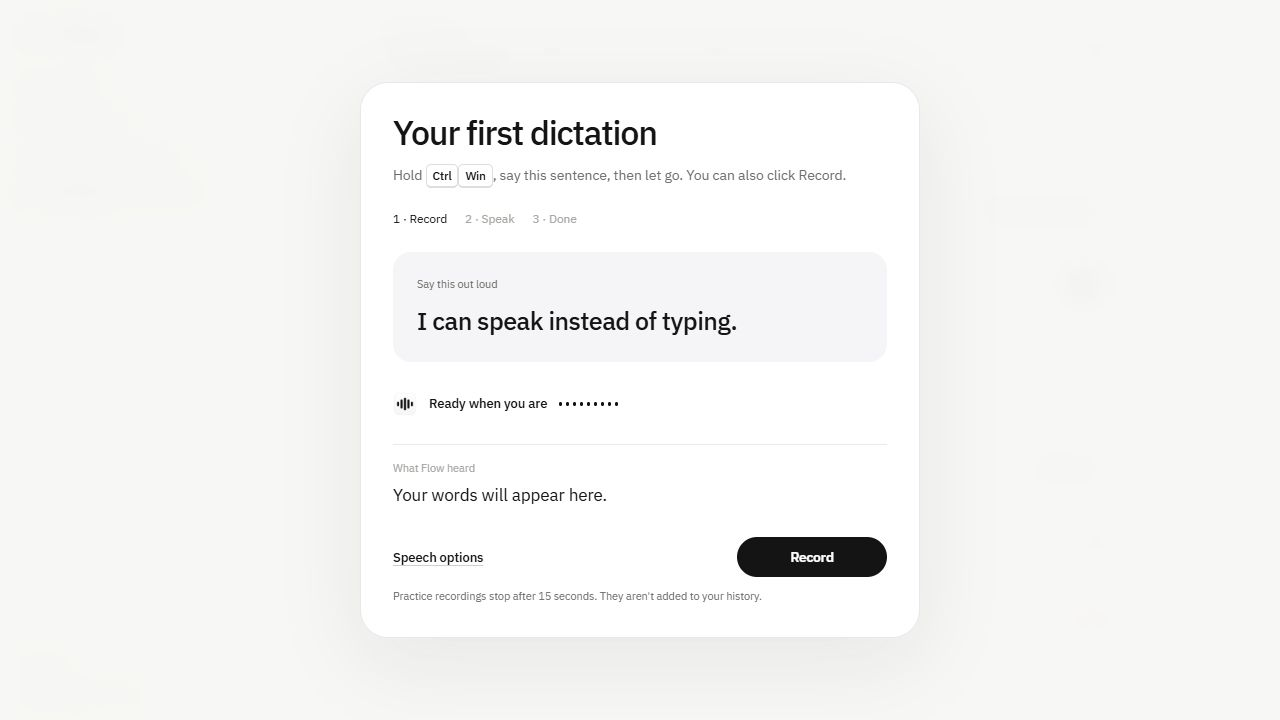
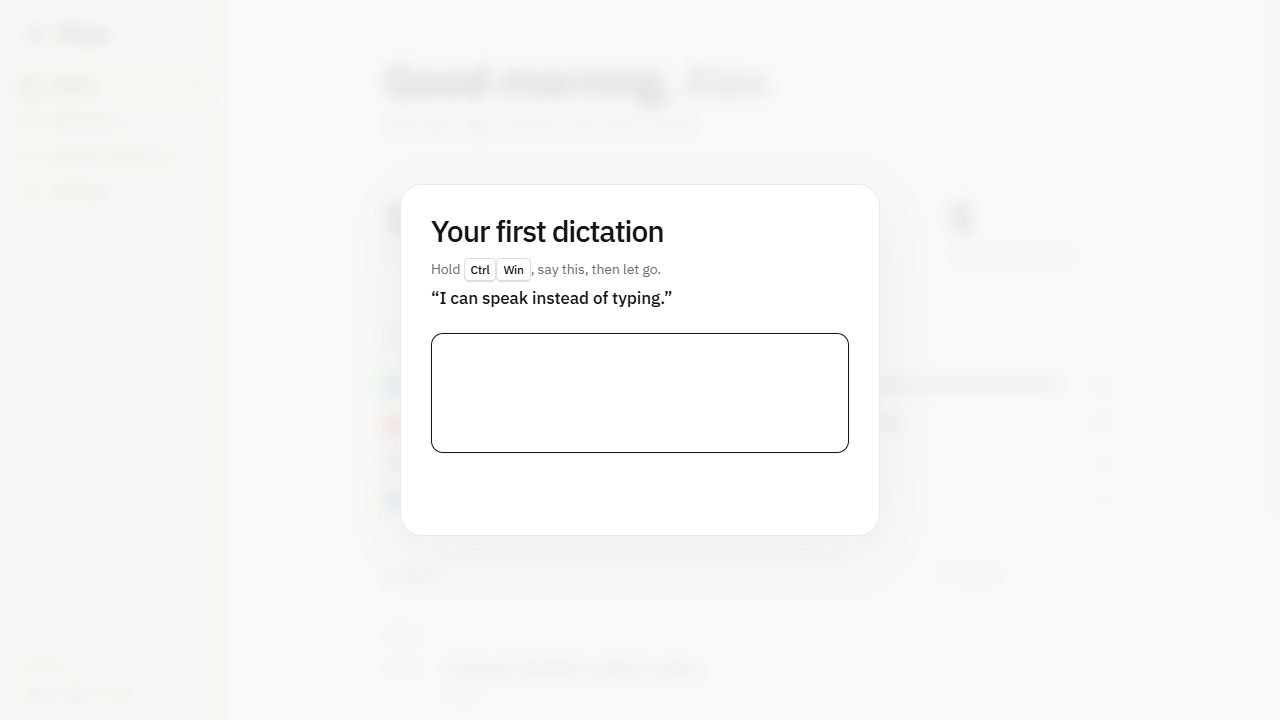
Simplify first dictation and fade setup into the app

diff --git a/ui.html b/ui.html
@@ -197,34 +197,26 @@
   .form-status { color: var(--ink-2); font-size: 12.5px; margin: 10px 0; }
   .shortcut-example { background: #F3F3F1; border-radius: 14px; padding: 16px 20px; margin: -18px 0 24px; display: flex; align-items: center; gap: 14px; flex-wrap: wrap; font-size: 14px; }
   .shortcut-example b { font-weight: 500; }
-  .tutorial { position: fixed; inset: 0; background: #f7f7f5f5; backdrop-filter: blur(12px); z-index: 80; display: grid; place-items: center; padding: 24px; overflow: auto; }
-  .tour-card { width: min(560px, 100%); background: white; border: 1px solid #e8e8eb; border-radius: 28px; padding: 32px; box-shadow: 0 24px 80px #14141412; animation: tour-in .4s var(--ease); }
-  .tour-card h1 { font-size: 34px; letter-spacing: -.035em; }
+  .ob.leaving, .tutorial.leaving { animation: setup-out .28s var(--ease) both; pointer-events: none; }
+  .ob.leaving .ob-card { animation: card-out .28s var(--ease) both; }
+  .tutorial { position: fixed; inset: 0; background: #f7f7f5ce; backdrop-filter: blur(8px); z-index: 80; display: grid; place-items: center; padding: 24px; overflow: auto; animation: setup-in .28s var(--ease); }
+  .tour-card { width: min(480px, 100%); background: white; border: 1px solid var(--line); border-radius: 22px; padding: 30px; box-shadow: 0 16px 60px #1414140d; animation: tour-in .32s var(--ease); }
+  .tour-card h1 { font-size: 30px; letter-spacing: -.035em; }
   .tour-card p { color: var(--ink-2); font-size: 14px; }
-  .practice-steps { display: flex; gap: 18px; padding: 0; list-style: none; color: var(--ink-3); font-size: 12px; margin: 24px 0; }
-  .practice-steps li.on { color: #141414; }
-  .practice-steps li.done { color: #27864b; }
-  .practice-phrase { border-radius: 18px; background: #f5f5f7; padding: 24px; margin-bottom: 18px; }
-  .practice-phrase small { display: block; color: var(--ink-2); font-size: 11px; margin-bottom: 12px; }
-  .practice-phrase blockquote { margin: 0; font-size: 25px; font-weight: 500; line-height: 1.35; letter-spacing: -.02em; }
-  .practice-meter { display: flex; align-items: center; gap: 12px; min-height: 48px; }
-  .practice-meter img { width: 24px; height: 24px; }
-  .practice-bars { display: flex; align-items: center; gap: 4px; height: 32px; }
-  .practice-bars i { display: block; width: 3px; height: 4px; border-radius: 3px; background: #141414; transition: height .15s ease; }
-  .practice-meter[data-state="thinking"] .practice-bars i { animation: tour-wave .65s ease-in-out infinite alternate; animation-delay: calc(var(--i) * -.1s); }
-  .practice-meter[data-state="passed"] .practice-bars { display: none; }
-  .practice-meter b { font-size: 13px; font-weight: 500; }
-  .practice-meter time { margin-left: auto; color: var(--ink-2); font-size: 12px; font-variant-numeric: tabular-nums; }
-  .practice-output { min-height: 65px; border-top: 1px solid var(--line); margin-top: 16px; padding: 15px 0; }
-  .practice-output small { display: block; font-size: 11px; color: var(--ink-3); margin-bottom: 6px; }
-  .practice-output p { color: #141414; margin: 0; font-size: 17px; }
-  .tour-foot { display: flex; justify-content: space-between; align-items: center; gap: 12px; margin-top: 14px; }
-  .tour-foot .btn { min-width: 150px; }
+  #tourHint { margin: 12px 0 6px; }
+  .practice-phrase { margin: 0 0 22px; font-size: 17px; font-weight: 500; }
+  .practice-output { display: block; width: 100%; height: 120px; padding: 16px; border: 1px solid #ddddd9; border-radius: 12px; resize: none; background: white; user-select: text; font-size: 18px; line-height: 1.5; transition: border-color .15s, box-shadow .15s; }
+  .practice-output:focus { outline: none; border-color: var(--ink); box-shadow: 0 0 0 2px #14141408; }
+  .tutorial[data-state="passed"] .practice-output { border-color: #3c9a5f; }
+  .tour-foot { display: flex; justify-content: space-between; align-items: center; gap: 12px; min-height: 40px; margin-top: 12px; }
+  #practiceState { font-size: 12px; color: var(--ink-2); }
+  .tour-foot .btn { padding: 8px 18px; }
   .practice-note { font-size: 11px !important; margin: 12px 0 0; line-height: 1.45; }
-  @keyframes tour-in { from { opacity: 0; transform: translateY(16px) scale(.96); } }
-  @keyframes tour-press { 25%,65% { transform: translateY(3px); background: #F3F3F1; } }
-  @keyframes tour-wave { to { height: 24px; } }
-  button:focus-visible, input:focus-visible, select:focus-visible, a:focus-visible { outline: 2px solid #141414; outline-offset: 3px; }
+  @keyframes setup-in { from { opacity: 0; } }
+  @keyframes setup-out { to { opacity: 0; } }
+  @keyframes card-out { to { opacity: 0; transform: translateY(-8px); } }
+  @keyframes tour-in { from { opacity: 0; transform: translateY(10px); } }
+  button:focus-visible, input:focus-visible, textarea:focus-visible, select:focus-visible, a:focus-visible { outline: 2px solid #141414; outline-offset: 3px; }
   @media (prefers-reduced-motion: reduce) { *, *::after { animation: none !important; transition: none !important; } }
   @media (max-height: 650px) { .ob { align-items: flex-start; overflow-y: auto; padding: 42px 0; } .ob-foot { margin-top: 20px; } #tutorial { align-items: flex-start; padding: 18px; } .tour-card { padding: 24px; } }
   mark { background: #FFF1A8; color: inherit; border-radius: 2px; }
@@ -702,57 +694,88 @@ async function obNext() {
     btn.disabled = true; btn.textContent = "Getting to know you…";
     if (ob.notes) await api().enable_voice_notes(true);
     await api().finish_onboarding(ob.name, ob.langs, ob.scan && (ob.sys.vaults || []).length > 0);
-    $("#ob").hidden = true; await boot(); showTutorial();
+    await boot();
+    $("#scroll").inert = true; $("aside").inert = true;
+    await fadeAway($("#ob"));
+    showTutorial();
     return;
   }
   ob.step++; obRender();
 }
 
 // ---------------------------------------------------------------- shell
+async function fadeAway(layer) {
+  if (!window.matchMedia("(prefers-reduced-motion: reduce)").matches) {
+    layer.classList.add("leaving");
+    // A bounded timer also handles WebViews that don't dispatch animationend.
+    await new Promise(resolve => setTimeout(resolve, 280));
+  }
+  layer.hidden = true; layer.classList.remove("leaving");
+}
 let tourTimer, tourFocus, tourData, tourState = "loading", tourPolling = false;
 async function showTutorial() {
   clearInterval(tourTimer); tourFocus = document.activeElement; tourState = "loading";
-  const modal = $("#tutorial"); modal.hidden = false;
+  const modal = $("#tutorial"); modal.hidden = false; modal.dataset.state = "loading";
   $("#scroll").inert = true; $("aside").inert = true;
-  modal.innerHTML = `<div class="tour-card"><h1 id="tourTitle">Your first dictation</h1><p id="tourHint">Hold ${kbd(S.shortcut)}, say this sentence, then let go. You can also click Record.</p>
-    <ol class="practice-steps"><li class="on">1 · Record</li><li>2 · Speak</li><li>3 · Done</li></ol>
-    <div class="practice-phrase"><small>Say this out loud</small><blockquote id="practicePhrase">Getting ready…</blockquote></div>
-    <div class="practice-meter" id="practiceMeter" data-state="loading"><img src="assets/logo.png" alt=""><b id="practiceState" role="status">Getting the speech engine ready…</b><div class="practice-bars">${Array.from({length:9}, (_,i) => `<i style="--i:${i}"></i>`).join("")}</div><time id="practiceTime"></time></div>
-    <div class="practice-output"><small>What Flow heard</small><p id="practiceOutput" aria-live="polite">Your words will appear here.</p></div>
-    <div class="tour-foot"><div><button class="link" id="practiceOptions">Speech options</button><button class="link" id="cancelPractice" hidden>Cancel recording</button></div><button class="btn" id="practiceAction" disabled>Record</button></div>
-    <div id="practiceOptionsPanel" hidden></div>
-    <p class="practice-note" id="practiceNote">Practice recordings stop after 15 seconds. They aren't added to your history.</p>
-    <p class="form-error" id="practiceError" role="alert" hidden></p></div>`;
+  modal.innerHTML = `<div class="tour-card"><h1 id="tourTitle">Your first dictation</h1>
+    <p id="tourHint">Hold ${kbd(S.shortcut)}, say this, then let go.</p>
+    <blockquote class="practice-phrase">“<span id="practicePhrase"></span>”</blockquote>
+    <textarea class="practice-output" id="practiceOutput" aria-label="Your dictation" aria-describedby="tourHint practicePhrase practiceState" readonly></textarea>
+    <div class="tour-foot"><span id="practiceState" role="status">Getting ready…</span><button class="btn" id="practiceAction" hidden disabled>Continue</button></div>
+    <p class="practice-note" id="practiceNote" hidden></p>
+    <p class="form-error" id="practiceError" role="alert" hidden></p>
+    <button class="link" id="practiceOptions" hidden>Speech settings</button><div id="practiceOptionsPanel" hidden></div></div>`;
   document.removeEventListener("keydown", tourKeys); document.addEventListener("keydown", tourKeys);
   $("#practiceAction").onclick = async () => {
     const button = $("#practiceAction"); button.disabled = true;
     try {
-      if (tourState === "passed") return await finishTutorial();
-      if (tourState === "recording") { tourState = "thinking"; await api().practice_stop(); }
-      else { tourState = "starting"; $("#practiceOutput").textContent = "Listening for your sentence…"; await api().practice_start(); }
-      await pollPractice();
-    } catch (error) { $("#practiceError").textContent = error.message || String(error); $("#practiceError").hidden = false; tourState = "retry"; button.disabled = false; button.textContent = "Try again"; }
+      if (tourState === "passed") await finishTutorial();
+    } catch (error) { $("#practiceError").textContent = error.message || String(error); $("#practiceError").hidden = false; button.disabled = false; }
   };
-  $("#cancelPractice").onclick = async () => { await api().practice_cancel(); await pollPractice(); };
+  // Engine recovery appears only on a failure; the ordinary practice stays empty.
   $("#practiceOptions").onclick = () => {
-    const panel = $("#practiceOptionsPanel"); panel.hidden = !panel.hidden; if (panel.hidden) return;
+    const panel = $("#practiceOptionsPanel"); panel.hidden = !panel.hidden;
+    if (panel.hidden) { $("#practiceOutput").focus(); return; }
     const config = speechConfig();
-    const draw = () => { panel.innerHTML = speechForm("practiceSpeech", config, S.speech_models || [], S.gpu && S.cuda ? "large-v3" : "small") + `<button class="btn" id="practiceSaveEngine">Use this engine</button>`;
+    const draw = () => {
+      panel.innerHTML = speechForm("practiceSpeech", config, S.speech_models || [], S.recommended_model || "small") + `<button class="btn" id="practiceSaveEngine">Use this engine</button>`;
       bindSpeech("practiceSpeech", config, draw);
-      $("#practiceSaveEngine").onclick = async e => { const button = e.currentTarget; button.disabled = true; const applied = await applySpeech("practiceSpeech",config); if (applied) {panel.hidden = true; if (config.provider === "api") $("#practiceNote").textContent = "This practice sends your recording to the selected speech provider. Its data policy and API fees apply."; else $("#practiceNote").textContent = "Practice recordings stop after 15 seconds. They aren't added to your history.";} else button.disabled = false; };
+      $("#practiceSaveEngine").onclick = async e => {
+        const button = e.currentTarget; button.disabled = true;
+        if (await applySpeech("practiceSpeech", config)) {
+          try {
+            tourData = await api().practice_open(document.hasFocus());
+            $("#practicePhrase").textContent = tourData.phrase;
+            $("#practiceOutput").value = "";
+            await pollPractice();
+            clearInterval(tourTimer); tourTimer = setInterval(pollPractice, 200);
+          } catch (error) {
+            $("#practiceError").textContent = error.message || String(error);
+            $("#practiceError").hidden = false; button.disabled = false; return;
+          }
+          panel.hidden = true;
+          $("#practiceNote").hidden = config.provider !== "api";
+          $("#practiceNote").textContent = "Audio is sent to your speech provider. Its data policy and API fees apply.";
+          $("#practiceOutput").focus();
+        } else button.disabled = false;
+      };
     }; draw();
   };
   try {
     tourData = await api().practice_open(document.hasFocus());
     $("#practicePhrase").textContent = tourData.phrase;
-    if (tourData.api) $("#practiceNote").textContent = `Your recording is sent to ${tourData.provider || "your speech provider"}. Its data policy and API fees apply. Practice stops after 15 seconds.`;
+    if (tourData.api) {
+      $("#practiceNote").hidden = false;
+      $("#practiceNote").textContent = `Audio is sent to ${tourData.provider || "your speech provider"}. Its data policy and API fees apply.`;
+    }
+    $("#practiceOutput").focus({preventScroll:true});
     await pollPractice(); tourTimer = setInterval(pollPractice, 200);
-  } catch (error) { $("#practiceError").textContent = error.message || String(error); $("#practiceError").hidden = false; }
+  } catch (error) { $("#practiceError").textContent = error.message || String(error); $("#practiceError").hidden = false; $("#practiceOptions").hidden = false; }
 }
 function tourKeys(e) {
   if (e.key === "Escape") { e.preventDefault(); if (tourState === "recording") api().practice_cancel(); return; }
   if (e.key === "Tab") {
-    const controls = [...$("#tutorial").querySelectorAll("button")].filter(b => !b.hidden && !b.disabled);
+    const controls = [...$("#tutorial").querySelectorAll("textarea,button,input,select,a")].filter(b => !b.closest('[hidden]') && !b.disabled);
     if (!controls.length) { e.preventDefault(); return; }
     const first = controls[0], last = controls.at(-1);
     if (e.shiftKey && document.activeElement === first) { e.preventDefault(); last.focus(); }
@@ -765,31 +788,32 @@ async function pollPractice() {
   try {
     const status = await api().practice_status(document.hasFocus());
     if ($("#tutorial").hidden) return;
-    if (status.phase === 'recording' && tourState !== 'recording') $("#practiceOutput").textContent = 'Listening for your sentence…';
+    const output = $("#practiceOutput");
+    if (status.phase === 'recording' && tourState !== 'recording') output.value = '';
     tourState = status.phase;
     const recording = status.phase === "recording", thinking = status.phase === "thinking", passed = status.phase === "passed" && status.matched;
-    $("#practiceMeter").dataset.state = status.phase;
-    $("#practiceState").textContent = recording ? "Recording" : thinking ? "Thinking…" : passed ? "✓ You did it" : status.phase === "loading" ? "Getting the speech engine ready…" : "Ready when you are";
-    $("#practiceTime").textContent = recording ? `${Math.floor(status.elapsed || 0)} / 15s` : thinking ? `${Math.floor(status.elapsed || 0)}s` : "";
-    document.querySelectorAll(".practice-bars i").forEach((bar,i) => { bar.style.height = (recording ? 4 + 24 * (status.level || 0) * (1 - Math.abs(i-4)/8) : 4) + "px"; });
-    $("#practiceAction").textContent = passed ? "Start using Flow" : recording ? "Finish" : thinking ? "Thinking…" : status.phase === "starting" ? "Starting…" : status.phase === "retry" ? "Try again" : "Record";
-    $("#practiceAction").disabled = !passed && (thinking || status.phase === "starting" || !status.ready || (!!status.busy && !recording) || status.phase === "loading");
-    $("#cancelPractice").hidden = !recording;
-    $("#practiceOptions").disabled = recording || thinking || status.phase === "starting";
+    $("#tutorial").dataset.state = status.phase;
+    output.dataset.ready = String(!!status.ready && status.phase !== "loading");
+    $("#practiceState").textContent = recording ? "Listening…" : thinking ? "Thinking…" : passed ? "That's it." : status.phase === "loading" || !status.ready ? "Getting ready…" : "";
+    $("#practiceAction").hidden = !passed;
+    $("#practiceAction").disabled = !passed;
     $("#practiceError").hidden = !status.message || passed;
     $("#practiceError").textContent = status.message || "";
-    if (status.text !== undefined) $("#practiceOutput").textContent = status.text || "No words detected.";
-    if (passed) $("#tourHint").innerHTML = `That's your voice, typed. Hold ${kbd(S.shortcut)} in any app to do it again.`;
-    document.querySelectorAll(".practice-steps li").forEach((item,i) => {item.classList.toggle("on", passed ? i === 2 : recording || thinking ? i === 1 : i === 0);item.classList.toggle("done", passed || (recording || thinking) && i === 0);});
-  } catch (error) { $("#practiceError").textContent = error.message || String(error); $("#practiceError").hidden = false; }
+    const engineError = status.phase === "error" || (status.phase === "retry" && status.text === undefined && !!status.message);
+    $("#practiceOptions").hidden = !engineError;
+    if (recording || thinking || passed) $("#practiceOptionsPanel").hidden = true;
+    if (!recording && !thinking && status.text !== undefined) output.value = status.text || "";
+  } catch (error) { $("#practiceError").textContent = error.message || String(error); $("#practiceError").hidden = false; $("#practiceOptions").hidden = false; }
   finally {tourPolling = false;}
 }
 async function finishTutorial() {
   await api().practice_complete();
   clearInterval(tourTimer); document.removeEventListener("keydown", tourKeys);
-  $("#tutorial").hidden = true; $("#scroll").inert = false; $("aside").inert = false;
+  await fadeAway($("#tutorial"));
+  $("#scroll").inert = false; $("aside").inert = false;
   S.tutorial_seen = true; S.tutorial_version = 2;
-  if (tourFocus && tourFocus.isConnected) tourFocus.focus();
+  if (tourFocus && tourFocus.isConnected && !tourFocus.closest('[hidden]')) tourFocus.focus();
+  else $('.nav.on').focus();
 }
 window.addEventListener("pagehide", () => { if (!$("#tutorial").hidden) api().practice_close(); });
 for (const event of ['focus', 'blur']) window.addEventListener(event, () => {
@@ -860,6 +884,7 @@ async function init() {
   if (S.native_window) { document.body.classList.add("native"); $("#appChrome").hidden = false; }
   document.querySelectorAll("[data-window]").forEach(b => b.onclick = () => api().window_action(b.dataset.window));
   if (!S.onboarded) {
+    $("#scroll").inert = true; $("aside").inert = true;
     ob.sys = await api().system(); S.free_ram_gb = ob.sys.free_ram_gb; S.free_vram_gb = ob.sys.free_vram_gb; ob.name = S.name || ""; ob.langs = S.languages && S.languages.length ? S.languages : ["en"];
     ob.speech = speechConfig(); ob.speech.model = ob.sys.recommended_model; ob.speech.consent = false;
     $("#ob").hidden = false; obRender();

diff --git a/smoke.py b/smoke.py
@@ -72,11 +72,15 @@ def run_window():
                 while time.monotonic() < deadline:
                     state = win.evaluate_js("""({tutorial: !document.querySelector('#tutorial').hidden,
                         title: document.querySelector('#tourTitle')?.textContent,
-                        enabled: document.querySelector('#practiceAction')?.disabled === false,
+                        ready: document.querySelector('#practiceOutput')?.dataset.ready === 'true',
+                        blank: document.querySelector('#practiceOutput')?.value === '',
+                        readonly: document.querySelector('#practiceOutput')?.readOnly === true,
+                        locked: document.querySelector('#practiceAction')?.hidden === true,
                         phrase: document.querySelector('#practicePhrase')?.textContent,
                         empty: document.querySelector('.empty')?.textContent.includes('Nothing yet.')})""")
                     if (getattr(win, '_flow_style_applied', False) and state['tutorial']
-                            and state['enabled'] and state['phrase'] != 'Getting ready…' and state['empty']):
+                            and state['ready'] and state['blank'] and state['readonly'] and state['locked']
+                            and state['phrase'] and state['empty']):
                         report.update(ok=True, native_window='responsive', icon='applied on GUI thread',
                                       tutorial='visible, initialized, ready to record', history='empty')
                         break

diff --git a/version.py b/version.py
@@ -1,1 +1,1 @@
-APP_VERSION = "1.5.11"
+APP_VERSION = "1.5.12"

diff --git a/README.md b/README.md
@@ -10,7 +10,7 @@ Free voice dictation for Windows and Linux. Hold a key, talk, let go, and your w
 
 The repository and downloads are private until the owner chooses to publish them. Sign into GitHub with an account that has repository access to download.
 
-Setup asks for your name, speech engine and model, then downloads the selected model before you start. Local downloads are Whisper small (0.5 GB), large-v3-turbo (1.6 GB) and large-v3 (3.1 GB). Recommendations use available RAM and NVIDIA VRAM, with conservative runtime budgets rather than download sizes. Models that exceed available RAM are disabled. Models that cannot fit GPU memory can run on the CPU if RAM allows; API speech is another option. Unknown memory is marked unverified, and GPU failures still fall back to CPU. GPU acceleration and cleanup are optional downloads. On-device dictation works offline after setup. The first-use tutorial asks you to record a short sentence with your selected speech engine and accepts it only when the phrase matches. Practice recordings stop after 15 seconds and are not saved in history. Replay the practice in Settings.
+Setup asks for your name, speech engine and model, then downloads the selected model before you start. Local downloads are Whisper small (0.5 GB), large-v3-turbo (1.6 GB) and large-v3 (3.1 GB). Recommendations use available RAM and NVIDIA VRAM, with conservative runtime budgets rather than download sizes. Models that exceed available RAM are disabled. Models that cannot fit GPU memory can run on the CPU if RAM allows; API speech is another option. Unknown memory is marked unverified, and GPU failures still fall back to CPU. GPU acceleration and cleanup are optional downloads. On-device dictation works offline after setup. Setup fades into a simple first dictation: hold Ctrl + Win (Ctrl + Super on Linux), say the shown sentence, and release. An empty text box fills with your actual transcript; Continue appears only when the spoken phrase matches. Practice recordings stop after 15 seconds and are not saved in history. Replay the practice in Settings. Animations respect reduced motion.
 
 ### Optional API speech
 
